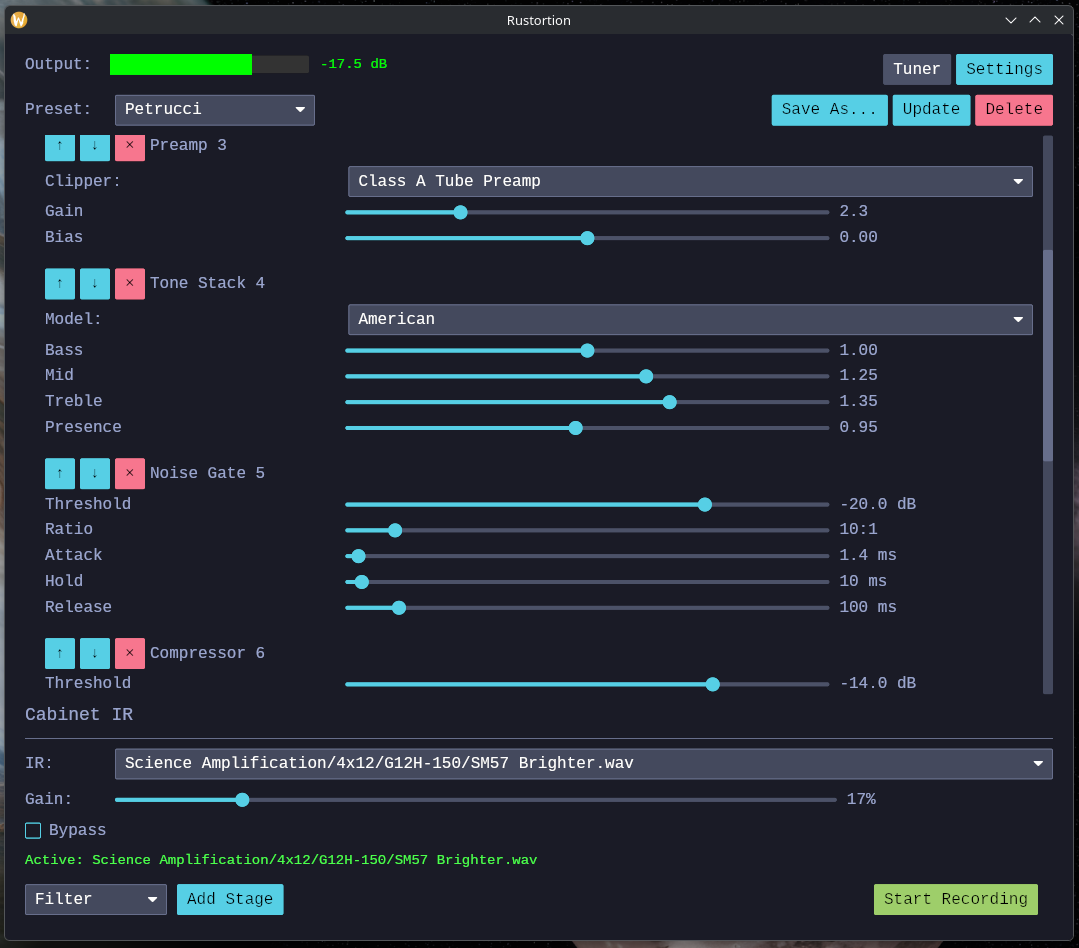
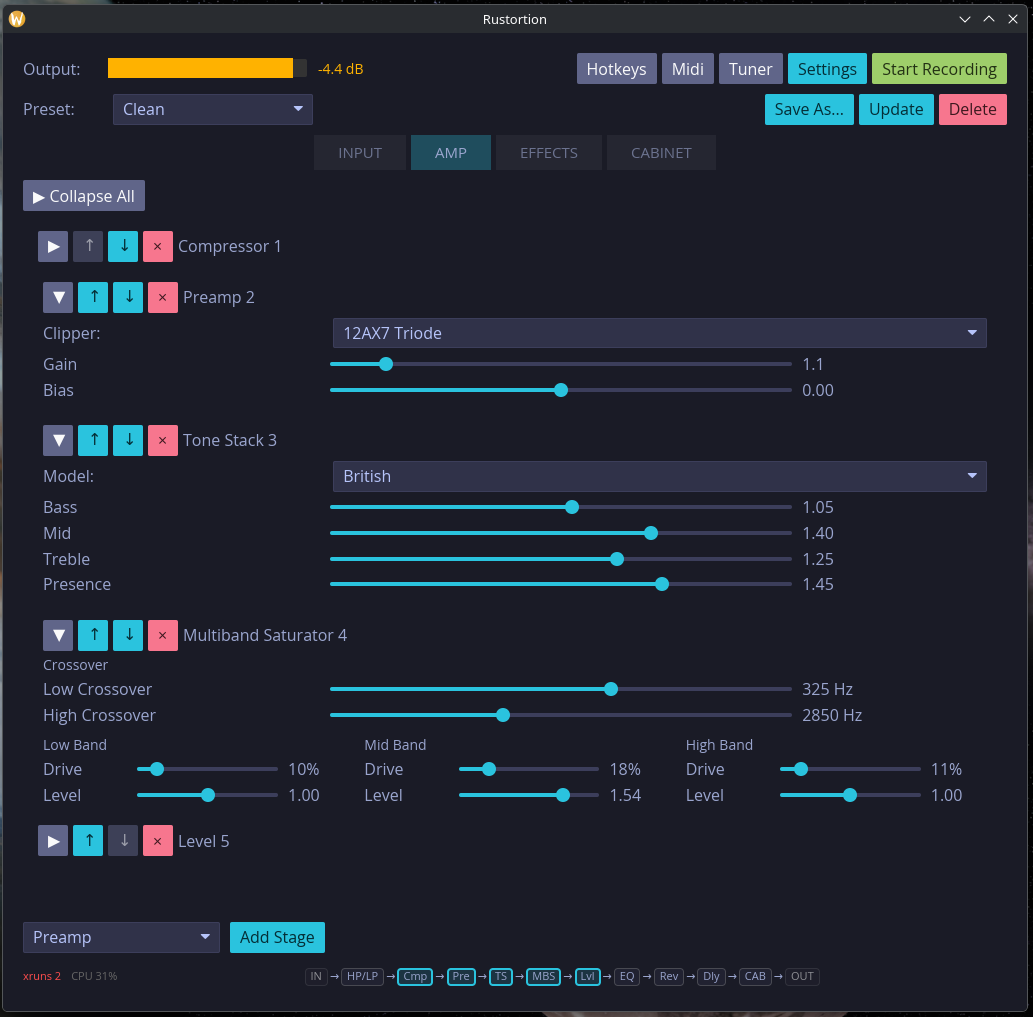
release 0.2.0 (#214)

diff --git a/src/gui/app.rs b/src/gui/app.rs
@@ -224,17 +224,7 @@ impl AmplifierApp {
                 .style(iced::widget::button::success)
         };
 
-        let recording_status = if self.is_recording {
-            text(tr!(recording)).style(|_| iced::widget::text::Style {
-                color: Some(COLOR_ERROR),
-            })
-        } else {
-            text("").style(|theme: &iced::Theme| iced::widget::text::Style {
-                color: Some(theme.palette().text),
-            })
-        };
-
-        row![
+        let mut header_row = row![
             self.peak_meter_display.view(),
             space::horizontal(),
             button(tr!(hotkeys))
@@ -248,11 +238,18 @@ impl AmplifierApp {
                 .style(iced::widget::button::secondary),
             button(tr!(settings)).on_press(Message::Settings(SettingsMessage::Open)),
             record_button,
-            recording_status,
         ]
         .spacing(SPACING_TIGHT)
-        .align_y(Alignment::Center)
-        .into()
+        .align_y(Alignment::Center);
+
+        if self.is_recording {
+            header_row =
+                header_row.push(text(tr!(recording)).style(|_| iced::widget::text::Style {
+                    color: Some(COLOR_ERROR),
+                }));
+        }
+
+        header_row.into()
     }
 
     fn view_tab_bar(&self) -> Element<'_, Message> {

diff --git a/CHANGELOG.md b/CHANGELOG.md
@@ -1,3 +1,33 @@
+## [0.2.0] - 2026-03-08
+
+### 🚀 Features
+
+- Display number of x-runs and show CPU usage (#195)
+- Add hotkeys, allow active preset to be changed by keypress (#196)
+- Add collapsible stage cards with per-stage and global toggle (#201)
+- Add delay stage (#203)
+- Persist per-preset stage collapse state (#204)
+- Add reverb stage (#206)
+- UI overhaul — input filters, tabs, minimap, dialog standardization (#207)
+- Add 16-band graphic EQ stage (#209)
+- Add 12AX7 triode clipper and inter-stage filtering (#211)
+
+### 🐛 Bug Fixes
+
+- Increase fft size in pitch shifter to improve sound quality (#194)
+- Reset selected stage type when switching tabs (#210)
+
+### 🚜 Refactor
+
+- Move components from app to handlers (#197)
+- Extract DSP utilities, remove dead code, fix RT safety and minor issues (#198)
+- Consolidate per-stage GUI files into src/gui/stages/ (#199)
+- Deduplicate preset handler and add stage_registry! macro (#200)
+- Extract shared UI constants, colors, and dialog helpers (#208)
+
+### ⚙ Miscellaneous Tasks
+
+- Enable clippy pedantic+nursery lints, fix select categories (#202)
 ## [0.1.7] - 2026-02-21
 
 ### 🚀 Features

diff --git a/README.zh-CN.md b/README.zh-CN.md
@@ -6,18 +6,19 @@
 
 ## 截图
 
-![Rustortion](screenshots/rustortion.png)
+![Rustortion](screenshots/rustortion.zh-CN.png)
 
 ## 功能特性
 
-- 低延迟音频处理，支持可配置的过采样
-- 多级音箱模拟（前级放大、压缩器、音色堆栈、后级放大等）
+- 低延迟音频处理，支持可配置的过采样（1x–16x）
+- 10 个 DSP 处理级：前级放大（含 12AX7 三极管削波器）、压缩器、音色堆栈、后级放大、噪声门、电平、多频段饱和器、延迟、混响、16 频段图形均衡器
 - 支持吉他和贝斯的脉冲响应箱体模拟
-- 预设的保存与加载
+- 预设的保存与加载，支持键盘快捷键切换
 - 实时录音功能
 - 内置调音器
-- 基础 MIDI 控制器支持
-- 使用 [Iced](https://github.com/iced-rs/iced) 构建的图形界面
+- 基于 FFT 的变调功能，无需重新调弦即可切换至不同调音
+- MIDI 控制器支持
+- 标签式界面，支持缩略图、可折叠级卡片和输入滤波器控制 - 使用 [Iced](https://github.com/iced-rs/iced) 构建
 
 ## 系统要求
 

diff --git a/README.md b/README.md
@@ -11,14 +11,15 @@ A guitar amp simulator built in Rust using JACK.
 
 ## Features
 
-- Low-latency audio processing with configurable oversampling
-- Multiple amp simulation stages (preamp, compressor, tone stack, power amp, etc.)
+- Low-latency audio processing with configurable oversampling (1x–16x)
+- 10 DSP stages: preamp (with 12AX7 triode clipper), compressor, tone stack, power amp, noise gate, level, multi-band saturator, delay, reverb, and 16-band graphic EQ
 - Impulse response cabinet simulation for both guitar and bass
-- Saving and loading presets
+- Saving and loading presets with keyboard hotkey switching
 - Real-time recording capability
 - Built-in tuner
-- Basic MIDI controller support
-- GUI using [Iced](https://github.com/iced-rs/iced)
+- FFT-based pitch shifting for alternate tunings without retuning your instrument
+- MIDI controller support
+- Tabbed GUI with minimap, collapsible stage cards, and input filter controls - built with [Iced](https://github.com/iced-rs/iced)
 
 ## Requirements
 
